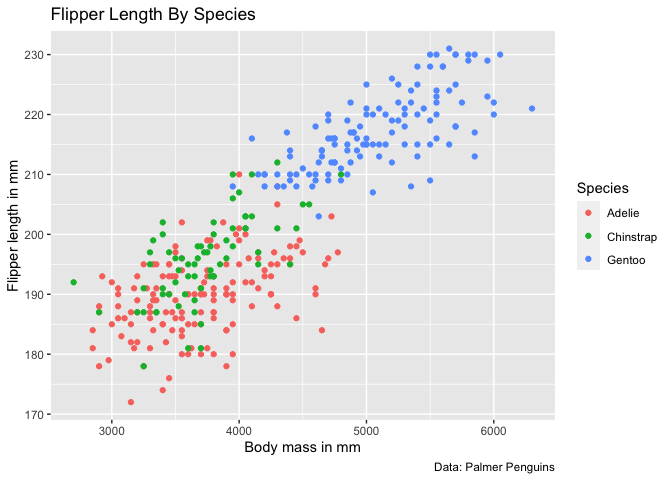
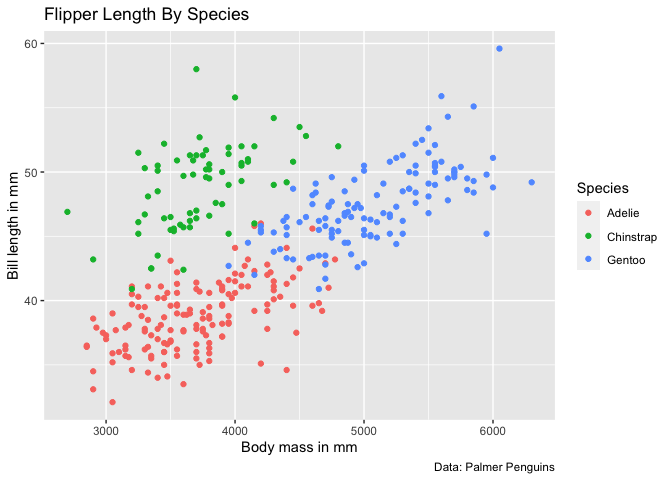
Label code chunks

diff --git a/blog-post.md b/blog-post.md
@@ -1,7 +1,7 @@
 How I Use Stories to Share Data at Meetings (R Edition)
 ================
 Ryan Estrellado
-2022-04-27
+May 8, 2022
 
 ## Want to keep people awake at data presentations? Try sharing your findings backwards. You’ve worked it. Now put your charts down, flip it and reverse it.
 
@@ -52,14 +52,7 @@ must keep them awake, right?
 Or as Jerry puts it in that episode of *Seinfeld*, “If every instinct
 you have is wrong, then the opposite would have to be right.”
 
-``` r
-# Insert tweet about analysis and presentation 
-
-# Test Tweet
-tweetrmd::include_tweet("https://twitter.com/ry_estrellado/status/1409900670317064196")
-```
-
-![](blog-post_files/figure-gfm/unnamed-chunk-1-1.png)<!-- -->
+![](blog-post_files/figure-gfm/Tweet-1.png)<!-- -->
 
 In the rest of this post I’ll share the sequence of steps I take to
 discover my findings. Then I’ll reverse those steps to craft a story for
@@ -87,42 +80,24 @@ Penguins dataset, I notice there are variables that describe
 measurements:
 
 ``` r
-# Packages I'm Using
-
 library(tidyverse)
-```
-
-    ## ── Attaching packages ─────────────────────────────────────── tidyverse 1.3.1 ──
-
-    ## ✔ ggplot2 3.3.5     ✔ purrr   0.3.4
-    ## ✔ tibble  3.1.6     ✔ dplyr   1.0.8
-    ## ✔ tidyr   1.2.0     ✔ stringr 1.4.0
-    ## ✔ readr   2.1.2     ✔ forcats 0.5.1
-
-    ## ── Conflicts ────────────────────────────────────────── tidyverse_conflicts() ──
-    ## ✖ dplyr::filter() masks stats::filter()
-    ## ✖ dplyr::lag()    masks stats::lag()
-
-``` r
 library(palmerpenguins)
 ```
 
 ``` r
-# Note length and depth variables 
-
 glimpse(penguins)
 ```
 
-    ## Rows: 344
-    ## Columns: 8
-    ## $ species           <fct> Adelie, Adelie, Adelie, Adelie, Adelie, Adelie, Adel…
-    ## $ island            <fct> Torgersen, Torgersen, Torgersen, Torgersen, Torgerse…
-    ## $ bill_length_mm    <dbl> 39.1, 39.5, 40.3, NA, 36.7, 39.3, 38.9, 39.2, 34.1, …
-    ## $ bill_depth_mm     <dbl> 18.7, 17.4, 18.0, NA, 19.3, 20.6, 17.8, 19.6, 18.1, …
-    ## $ flipper_length_mm <int> 181, 186, 195, NA, 193, 190, 181, 195, 193, 190, 186…
-    ## $ body_mass_g       <int> 3750, 3800, 3250, NA, 3450, 3650, 3625, 4675, 3475, …
-    ## $ sex               <fct> male, female, female, NA, female, male, female, male…
-    ## $ year              <int> 2007, 2007, 2007, 2007, 2007, 2007, 2007, 2007, 2007…
+    #> Rows: 344
+    #> Columns: 8
+    #> $ species           <fct> Adelie, Adelie, Adelie, Adelie, Adelie, Adelie, Adel…
+    #> $ island            <fct> Torgersen, Torgersen, Torgersen, Torgersen, Torgerse…
+    #> $ bill_length_mm    <dbl> 39.1, 39.5, 40.3, NA, 36.7, 39.3, 38.9, 39.2, 34.1, …
+    #> $ bill_depth_mm     <dbl> 18.7, 17.4, 18.0, NA, 19.3, 20.6, 17.8, 19.6, 18.1, …
+    #> $ flipper_length_mm <int> 181, 186, 195, NA, 193, 190, 181, 195, 193, 190, 186…
+    #> $ body_mass_g       <int> 3750, 3800, 3250, NA, 3450, 3650, 3625, 4675, 3475, …
+    #> $ sex               <fct> male, female, female, NA, female, male, female, male…
+    #> $ year              <int> 2007, 2007, 2007, 2007, 2007, 2007, 2007, 2007, 2007…
 
 So for this example, I’ll use this question: Do different species of
 penguins have different measurements?
@@ -137,45 +112,32 @@ want to see each data point. I also color the points by species, based
 on the hunch that different species have different measurements:
 
 ``` r
-# Bill length
-
 ggplot(penguins, aes(x = body_mass_g, y = bill_length_mm, color = species)) + 
   geom_point() + 
   labs(title = "Bill Length By Species")
 ```
 
-    ## Warning: Removed 2 rows containing missing values (geom_point).
-
-![](blog-post_files/figure-gfm/bill%20length%20plot-1.png)<!-- -->
+![](blog-post_files/figure-gfm/Bill%20Length%20Plot-1.png)<!-- -->
 
 ``` r
-# Bill depth
 ggplot(penguins, aes(x = body_mass_g, y = bill_depth_mm, color = species)) + 
   geom_point() + 
   labs(title = "Bill Depth By Species")
 ```
 
-    ## Warning: Removed 2 rows containing missing values (geom_point).
-
-![](blog-post_files/figure-gfm/bill%20depth%20plot-1.png)<!-- -->
+![](blog-post_files/figure-gfm/Bill%20Depth%20Plot-1.png)<!-- -->
 
 ``` r
-# Flipper length 
-
 ggplot(penguins, aes(x = body_mass_g, y = flipper_length_mm, color = species)) + 
   geom_point() + 
   labs(title = "Flipper Length By Species")
 ```
 
-    ## Warning: Removed 2 rows containing missing values (geom_point).
-
-![](blog-post_files/figure-gfm/flipper%20length%20plot-1.png)<!-- -->
+![](blog-post_files/figure-gfm/Flipper%20Length%20Plot-1.png)<!-- -->
 
 I also find the average length of these measurements by penguin species:
 
 ``` r
-# Average measurements 
-
 penguins |> 
   group_by(species) |> 
   summarize(mean_bill_length = mean(bill_length_mm, na.rm = TRUE), 
@@ -184,12 +146,12 @@ penguins |>
             mean_body_mass = mean(body_mass_g, na.rm = TRUE))
 ```
 
-    ## # A tibble: 3 × 5
-    ##   species   mean_bill_length mean_bill_depth mean_flipper_length mean_body_mass
-    ##   <fct>                <dbl>           <dbl>               <dbl>          <dbl>
-    ## 1 Adelie                38.8            18.3                190.          3701.
-    ## 2 Chinstrap             48.8            18.4                196.          3733.
-    ## 3 Gentoo                47.5            15.0                217.          5076.
+    #> # A tibble: 3 × 5
+    #>   species   mean_bill_length mean_bill_depth mean_flipper_length mean_body_mass
+    #>   <fct>                <dbl>           <dbl>               <dbl>          <dbl>
+    #> 1 Adelie                38.8            18.3                190.          3701.
+    #> 2 Chinstrap             48.8            18.4                196.          3733.
+    #> 3 Gentoo                47.5            15.0                217.          5076.
 
 I’ve plotted and summarized the data to help me spot interesting
 details. Now I’ll play with some language to describe what I notice.
@@ -284,18 +246,16 @@ Now the data helps your audience see how you arrived at the story:
 > length of all three species:
 
 ``` r
-ggplot(penguins, aes(x = body_mass_g, y = bill_length_mm, color = species)) + 
+ggplot(penguins, aes(x = body_mass_g, y = bill_length_mm, color = species)) +
   geom_point() + 
-  labs(title = "Flipper Length By Species", 
+  labs(title = "Bill Length By Species", 
        x = "Body mass in mm", 
        y = "Bill length in mm", 
        caption = "Data: Palmer Penguins", 
        color = "Species") 
 ```
 
-    ## Warning: Removed 2 rows containing missing values (geom_point).
-
-![](blog-post_files/figure-gfm/unnamed-chunk-2-1.png)<!-- -->
+![](blog-post_files/figure-gfm/Bill%20Length%20Presentation-1.png)<!-- -->
 
 > And here’s one that compares the flipper length of all three species:
 
@@ -309,9 +269,7 @@ ggplot(penguins, aes(x = body_mass_g, y = flipper_length_mm, color = species)) +
        color = "Species") 
 ```
 
-    ## Warning: Removed 2 rows containing missing values (geom_point).
-
-![](blog-post_files/figure-gfm/unnamed-chunk-3-1.png)<!-- -->
+![](blog-post_files/figure-gfm/Flipper%20Length%20Presentation-1.png)<!-- -->
 
 > See what I mean? The Chinstrap penguins tend to have longer bill
 > lengths. But they didn’t tend to have longer flipper length. That
@@ -321,17 +279,18 @@ ggplot(penguins, aes(x = body_mass_g, y = flipper_length_mm, color = species)) +
 ``` r
 penguins |> 
   group_by(species) |> 
-  summarize(mean_bill_length = mean(bill_length_mm, na.rm = TRUE), 
-            mean_flipper_length = mean(flipper_length_mm, na.rm = TRUE)) |> 
-  arrange(desc(mean_bill_length))
+  summarize("Mean Bill Length" = mean(bill_length_mm, na.rm = TRUE), 
+            "Mean Flipper Length" = mean(flipper_length_mm, na.rm = TRUE)) |>
+  rename("Species" = species) |> 
+  arrange(desc("Mean Bill Length"))
 ```
 
-    ## # A tibble: 3 × 3
-    ##   species   mean_bill_length mean_flipper_length
-    ##   <fct>                <dbl>               <dbl>
-    ## 1 Chinstrap             48.8                196.
-    ## 2 Gentoo                47.5                217.
-    ## 3 Adelie                38.8                190.
+    #> # A tibble: 3 × 3
+    #>   Species   `Mean Bill Length` `Mean Flipper Length`
+    #>   <fct>                  <dbl>                 <dbl>
+    #> 1 Adelie                  38.8                  190.
+    #> 2 Chinstrap               48.8                  196.
+    #> 3 Gentoo                  47.5                  217.
 
 # Go Forth
 
@@ -360,8 +319,8 @@ ryanestrellado.com*
 1.  **flip it and reverse it**: Elliot, M (2002). “Work It,” *Under
     Construction*, The Goldmind, Inc. 
 
-2.  *I’ll be sharing those lessons with you*: I’ve shared this technique
-    in a video about [presenting school
+2.  **I’ll be sharing those lessons with you**: I’ve shared this
+    technique in a video about [presenting school
     data](https://ryanestrellado.com/how-to-present-data-without-putting-people-to-sleep)
     and in my book about [data-driven decision making in
     schools](https://ryanestrellado.com/the-k12-educators-data-guidebook)
@@ -374,8 +333,9 @@ ryanestrellado.com*
     responses or [other stories from educators in the
     field](https://podcasts.apple.com/us/podcast/donuts-in-the-lounge-a-podcast-for-educators/id1610942852).
 
-5.  Horst AM, Hill AP, Gorman KB (2020). *palmerpenguins: Palmer
-    Archipelago (Antarctica) penguin data*. R package version 0.1.0.
+5.  **Palmer Penguins Package**: Horst AM, Hill AP, Gorman KB (2020).
+    *palmerpenguins: Palmer Archipelago (Antarctica) penguin data*. R
+    package version 0.1.0.
     <https://allisonhorst.github.io/palmerpenguins/>. doi:
     10.5281/zenodo.3960218.
 
